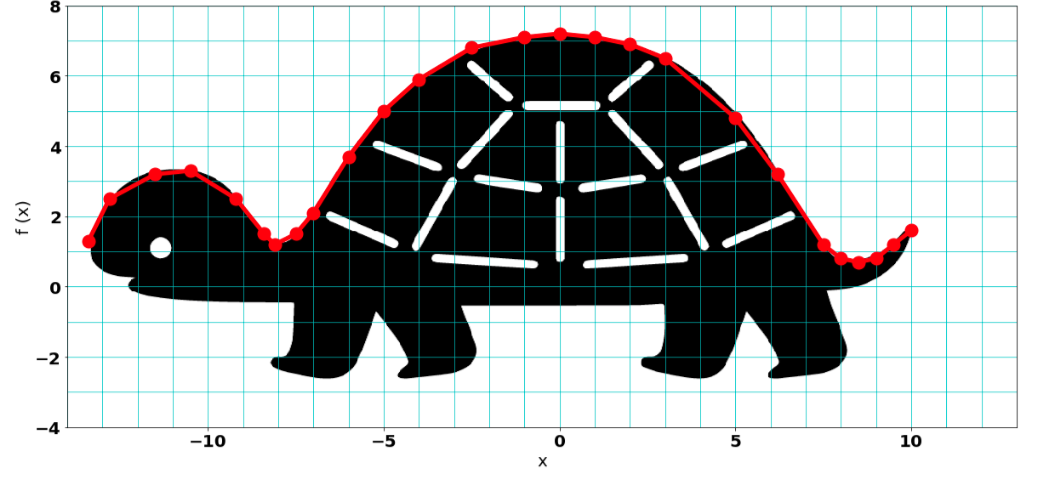
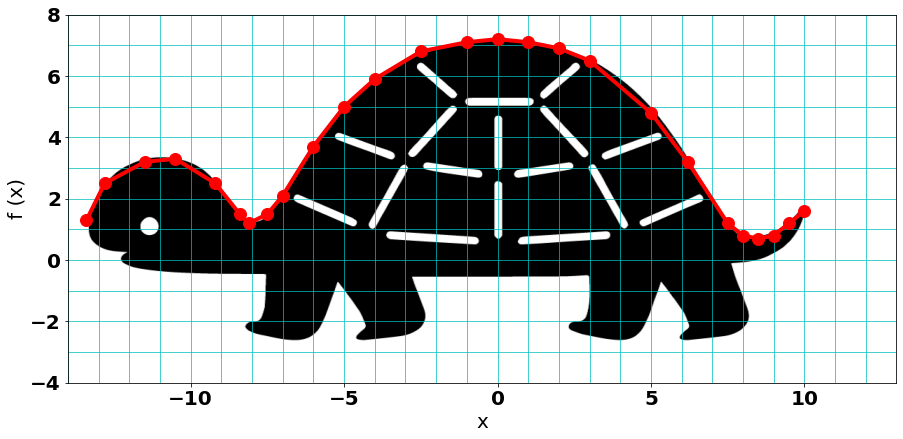
this closes #4, closes #5, closes #6 closes #7

Changed region(s): [[0.0, 0.0, 1.0, 0.9772]]

diff --git a/image_generator/main.py b/image_generator/main.py
@@ -23,7 +23,7 @@ def get_axes_of_turtle_image():
     ## configure the font for the labels on figure 
     matplotlib.rc('font', **FONT)
 
-    fig = plt.figure(figsize=(20,20))
+    fig = plt.figure(figsize=(14.86, 6.67), dpi = 72)
     a = fig.add_subplot(1, 1, 1)
     # add the turtle image as background 
     img = mpimg.imread(IMAGE_PATH)
@@ -44,12 +44,12 @@ def get_axes_of_turtle_image():
 
 def make_figure_two():
    ax = get_axes_of_turtle_image()
-   plt.show()
+   plt.savefig(os.path.join(IMAGES_DIRECTORY,"Figura2.png"), bbox_inches="tight", dpi = 72)
 
 def make_figure_three():
     ax = get_axes_of_turtle_image()
-    ax.plot(x,y,'ro-',markersize=15, linewidth = 5)
-    plt.show()
+    ax.plot(x,y,'ro-',markersize=12, linewidth = 4)
+    plt.savefig(os.path.join(IMAGES_DIRECTORY,"Figura3.png"), bbox_inches="tight", dpi = 72)
 
 def make_figure_four():
     ax = get_axes_of_turtle_image()
@@ -57,16 +57,16 @@ def make_figure_four():
     draw_red_dot(ax, 10, 1.6)
     draw_blue_line(ax, xpi, ypi)
     draw_blue_line(ax, xpf, ypf)
-    plt.show()
+    plt.savefig(os.path.join(IMAGES_DIRECTORY,"Figura4.png"), bbox_inches="tight", dpi = 72)
 
 
 def make_figure_eight():
     ax = get_axes_of_turtle_image()
-    ax.plot(x,y,'ro-',markersize=15, linewidth = 5)
+    ax.plot(x,y,'ro-',markersize=12, linewidth = 4)
     spline_y = get_spline_y()
     spline_x = np.arange(-13.4, 10.1, 0.1)
-    ax.plot(spline_x,spline_y,'b-', linewidth = 5)
-    plt.savefig(os.path.join(IMAGES_DIRECTORY,"Figura8.png"))
+    ax.plot(spline_x,spline_y,'b-', linewidth = 4)
+    plt.savefig(os.path.join(IMAGES_DIRECTORY,"Figura8.png"), bbox_inches="tight", dpi = 72)
 
 def get_spline_y():
     count = x[0]
@@ -81,14 +81,17 @@ def get_spline_y():
     return spline_y
 
 def draw_blue_line(axes,x_coordenates,y_coordenates):
-    axes.plot(x_coordenates, y_coordenates,'bo-',markersize=15, linewidth = 1)
+    axes.plot(x_coordenates, y_coordenates,'bo-',markersize=12, linewidth = 1)
 
 def draw_red_dot(axes,x_coordenates,y_coordenates):
-    axes.plot(x_coordenates, y_coordenates,'ro',markersize=15, linewidth = 5)
+    axes.plot(x_coordenates, y_coordenates,'ro',markersize=12, linewidth = 4)
 
 
 def main():
     print("successful ...!")
+    make_figure_two()
+    make_figure_three()
+    make_figure_four()
     make_figure_eight()
 
 if __name__ == "__main__":
